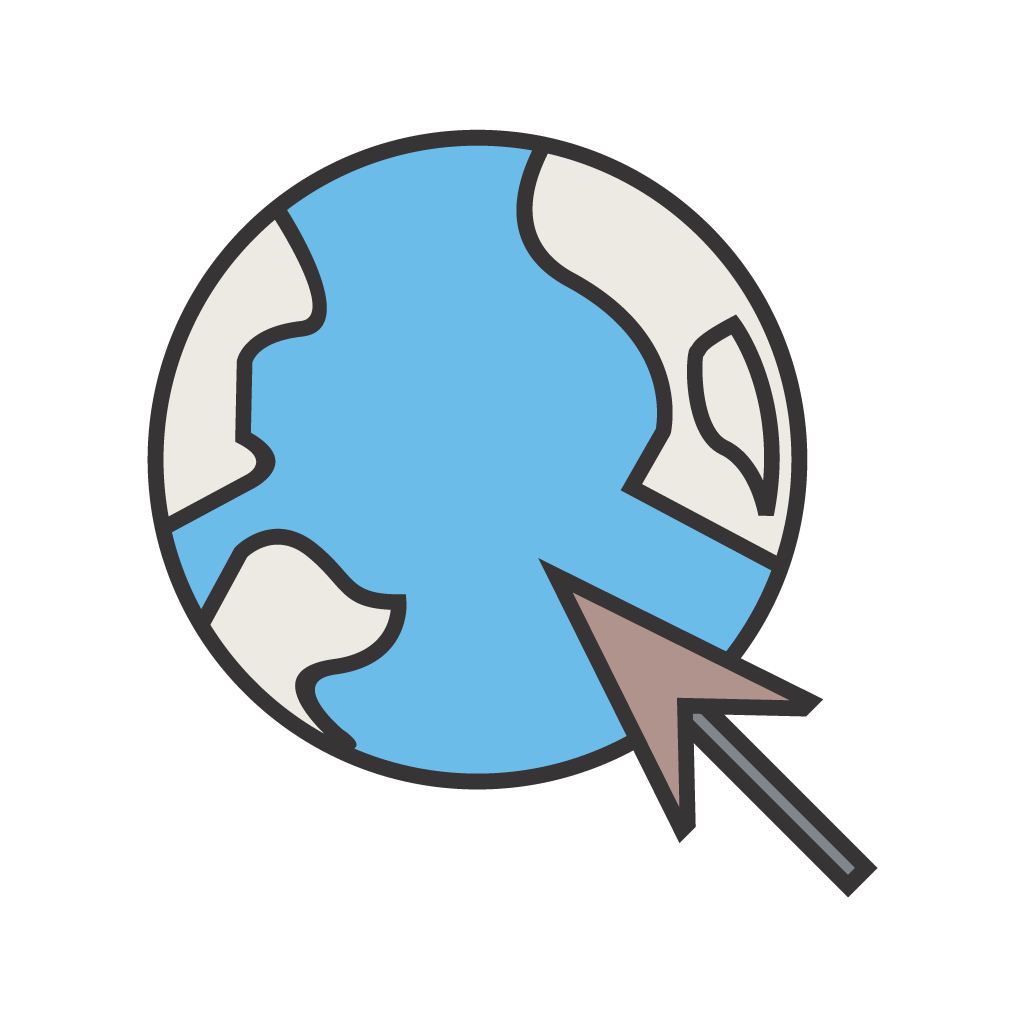
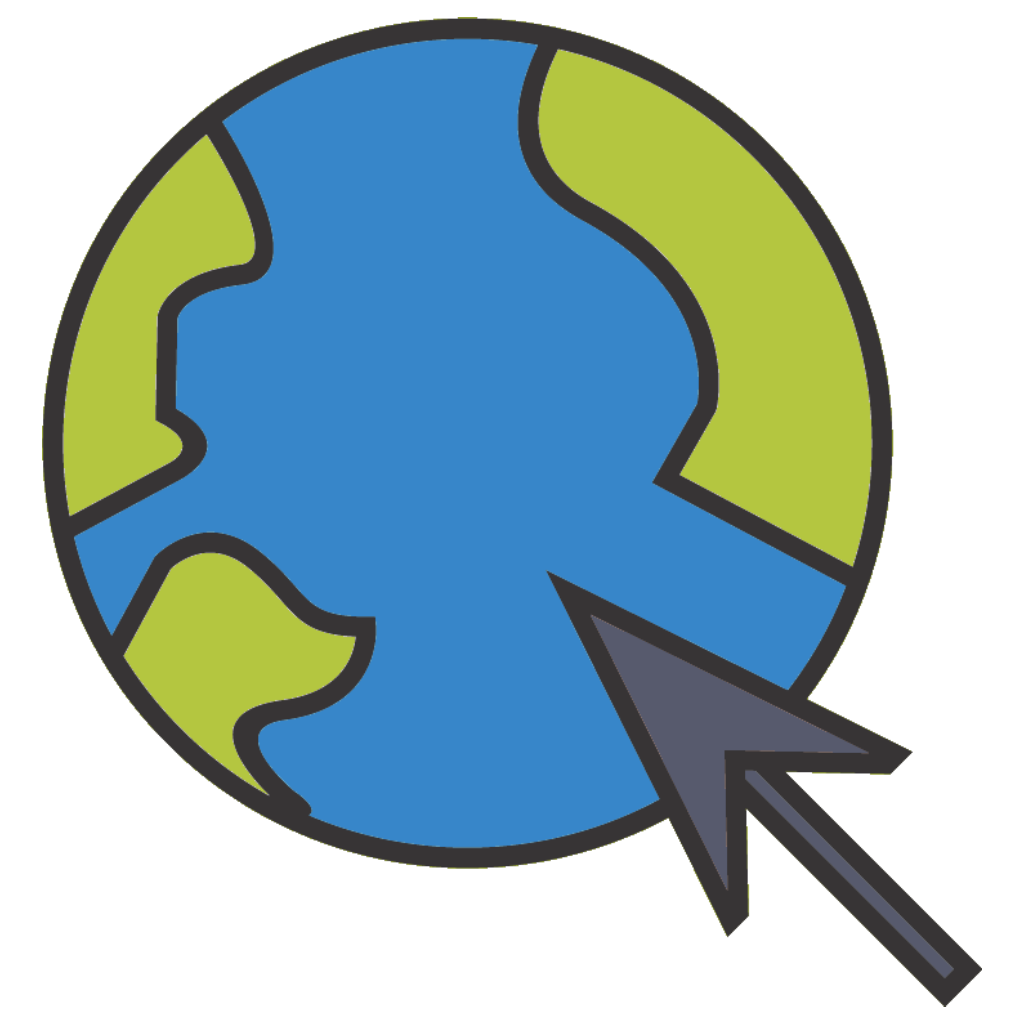
revamped color scheme

diff --git a/index.html b/index.html
@@ -5,12 +5,18 @@
     <meta http-equiv="X-UA-Compatible" content="IE=edge">
     <meta name="viewport" content="width=device-width, initial-scale=1.0">
     <title>Earl Diaz | Portfolio</title>
+    
     <!-- Bootstrap -->
     <link rel="stylesheet" href="https://cdn.jsdelivr.net/npm/bootstrap@4.6.1/dist/css/bootstrap.min.css" integrity="sha384-zCbKRCUGaJDkqS1kPbPd7TveP5iyJE0EjAuZQTgFLD2ylzuqKfdKlfG/eSrtxUkn" crossorigin="anonymous">
+    
     <!-- Google Fonts -->
     <link rel="preconnect" href="https://fonts.googleapis.com">
     <link rel="preconnect" href="https://fonts.gstatic.com" crossorigin>
     <link href="https://fonts.googleapis.com/css2?family=Anton&family=Open+Sans&display=swap" rel="stylesheet">
+    
+    <!-- AOS -->
+    <link href="https://unpkg.com/aos@2.3.1/dist/aos.css" rel="stylesheet">
+    
     <!-- Ext CSS -->
     <link rel="stylesheet" href="style.css">
 </head>
@@ -43,7 +49,7 @@
     <main class="container">
         <section class="row py-5" id="home">
             <div class="col-12">
-                <div class="jumbotron bg-light shadow d-flex justify-content-between align-items-center">
+                <div class="jumbotron bg-light shadow d-flex justify-content-between align-items-center" data-aos="fade-up" data-aos-duration="3000">
                     <div>
                         <h1 class="display-4">Hi! I'm <u>Earl</u> </h1>
                         <p class="lead">I love to <strong>build</strong> and help people <strong>build</strong> digital products for the world-wide web.</p>
@@ -56,56 +62,55 @@
             </div>
         </section>
         <section class="row pb-5" id="about-me">
-            <div class="col-12 text-center">
-                <img src="./images/me.png" alt="me">
+            <div class="col-6 text-right">
+                <img class="shadow" src="./images/me.png" id="self-image" alt="me" data-aos="flip-up">
             </div>
-            <div class="col-12 text-center mt-3">
-                <h3>About Me</h3>
-                <p class="text-justify">
+            <div class="col-6 mt-3">
+                <h3 data-aos="fade-right">About Me</h3>
+                <p class="text-justify w-75" data-aos="fade-right">
                     Lorem ipsum, dolor sit amet consectetur adipisicing elit. Quis consequatur sequi incidunt architecto. Odio molestiae recusandae provident ratione labore, dicta molestias mollitia, harum cum accusamus cumque natus, velit maiores consequuntur.
                     Consequatur, numquam? Aperiam quasi laudantium laborum quisquam voluptatibus explicabo neque ex obcaecati saepe, dicta ducimus blanditiis odio maxime unde eveniet alias soluta voluptates incidunt iusto sint. Unde rerum voluptate consequuntur!
-                    Praesentium molestiae obcaecati, aliquam architecto aut, earum incidunt animi iusto laborum tempora tempore molestias veniam totam voluptate. Excepturi quisquam aliquam exercitationem, quasi maiores repudiandae consequuntur qui quia quo totam laudantium.
                 </p>
             </div>
         </section>
-        <section class="row pb-5" id="my-projects">
+        <section class="row p-5 mb-5 bg-light shadow" id="my-projects" data-aos="fade-up" data-aos-duration="3000">
             <div class="col-12">
                 <h3>My Projects</h3>
             </div>
             <div class="col-4">
-                <div class="card" style="width: 18rem;">
+                <div class="card text-center" style="width: 18rem;">
                     <img src="https://picsum.photos/400/250" class="card-img-top" alt="...">
                     <div class="card-body">
                     <h5 class="card-title">Card title</h5>
-                    <p class="card-text">Some quick example text to build on the card title and make up the bulk of the card's content.</p>
+                    <p class="card-text text-justify">Some quick example text to build on the card title and make up the bulk of the card's content.</p>
                     <a href="#"><button class="btn btn-dark">Go somewhere</button></a>
                     </div>
                 </div>
             </div>
             <div class="col-4">
-                <div class="card" style="width: 18rem;">
+                <div class="card text-center" style="width: 18rem;">
                     <img src="https://picsum.photos/400/250" class="card-img-top" alt="...">
                     <div class="card-body">
                     <h5 class="card-title">Card title</h5>
-                    <p class="card-text">Some quick example text to build on the card title and make up the bulk of the card's content.</p>
+                    <p class="card-text text-justify">Some quick example text to build on the card title and make up the bulk of the card's content.</p>
                     <a href="#"><button class="btn btn-dark">Go somewhere</button></a>
                     </div>
                 </div>
             </div>
             <div class="col-4">
-                <div class="card" style="width: 18rem;">
+                <div class="card text-center" style="width: 18rem;">
                     <img src="https://picsum.photos/400/250" class="card-img-top" alt="...">
                     <div class="card-body">
                     <h5 class="card-title">Card title</h5>
-                    <p class="card-text">Some quick example text to build on the card title and make up the bulk of the card's content.</p>
+                    <p class="card-text text-justify">Some quick example text to build on the card title and make up the bulk of the card's content.</p>
                     <a href="#"><button class="btn btn-dark">Go somewhere</button></a>
                     </div>
                 </div>
             </div>
         </section>
-        <section class="row pb-5" id="contact-me">
+        <section class="row p-5 mb-5 bg-light shadow" id="contact-me" data-aos="fade-up" data-aos-duration="3000">
             <div class="col-12">
-                <h3>Contact</h3>
+                <h3>Contact Me!</h3>
             </div>
             <div class="col-6">
                 <form>
@@ -127,13 +132,44 @@
                 </form>
             </div>
             <div class="col-6">
-                <iframe src="https://www.google.com/maps/embed?pb=!1m18!1m12!1m3!1d3860.4100409860357!2d121.0414892144988!3d14.632650280214197!2m3!1f0!2f0!3f0!3m2!1i1024!2i768!4f13.1!3m3!1m2!1s0x3397b7f5db7f5e3f%3A0xe15d2d6a4453ed00!2sZuitt%20QC!5e0!3m2!1sen!2sph!4v1650355106174!5m2!1sen!2sph" width="600" height="450" style="border:0;" allowfullscreen="" loading="lazy" referrerpolicy="no-referrer-when-downgrade"></iframe>
+                <iframe src="https://www.google.com/maps/embed?pb=!1m18!1m12!1m3!1d3860.4100409860357!2d121.0414892144988!3d14.632650280214197!2m3!1f0!2f0!3f0!3m2!1i1024!2i768!4f13.1!3m3!1m2!1s0x3397b7f5db7f5e3f%3A0xe15d2d6a4453ed00!2sZuitt%20QC!5e0!3m2!1sen!2sph!4v1650355106174!5m2!1sen!2sph" width="500" height="450" style="border:0;" allowfullscreen="" loading="lazy" referrerpolicy="no-referrer-when-downgrade"></iframe>
             </div>
         </section>
     </main>
+    
+    <footer class="p-3 bg-light w-100">
+        <div class="container d-flex justify-content-between">
+            <div>
+                <a class="text-decoration-none" target="_blank" href="https://www.linkedin.com/in/diazearlrafael/">
+                    <img class="mr-3" src="./images/linkedin.png" alt="LinkedIn Logo" width="20" data-toggle="tooltip" data-placement="top" title="LinkedIn">
+                </a>
+                <a class="text-decoration-none" target="_blank" href="https://gitlab.com/fael_">
+                    <img class="mr-3" src="./images/gitlab.png" alt="Gitlab Logo" width="20" data-toggle="tooltip" data-placement="top" title="GitLab">
+                </a>
+                <a class="text-decoration-none" target="_blank" href="https://www.instagram.com/earlrafael_/">
+                    <img class="mr-3" src="./images/instagram.png" alt="IG Logo" width="20" data-toggle="tooltip" data-placement="top" title="Instagram">
+                </a>
+            </div>
+            <p><strong>Made with 🖤 by Earl Rafael Diaz.</strong></p>
+        </div>
+    </footer>
 
     <!-- Bootstrap JS -->
     <script src="https://cdn.jsdelivr.net/npm/jquery@3.5.1/dist/jquery.slim.min.js" integrity="sha384-DfXdz2htPH0lsSSs5nCTpuj/zy4C+OGpamoFVy38MVBnE+IbbVYUew+OrCXaRkfj" crossorigin="anonymous"></script>
     <script src="https://cdn.jsdelivr.net/npm/bootstrap@4.6.1/dist/js/bootstrap.bundle.min.js" integrity="sha384-fQybjgWLrvvRgtW6bFlB7jaZrFsaBXjsOMm/tB9LTS58ONXgqbR9W8oWht/amnpF" crossorigin="anonymous"></script>
+
+    <!-- AOS JS -->
+    <script src="https://unpkg.com/aos@2.3.1/dist/aos.js"></script>
+
+    <!-- Custom JS -->
+    <script>
+        // Initializes AOS
+        AOS.init();
+        
+        // Enables tooltips
+        $(function () {
+            $('[data-toggle="tooltip"]').tooltip()
+        })
+    </script>
 </body>
 </html>

diff --git a/style.css b/style.css
@@ -2,19 +2,26 @@
 {
     font-family: 'Open Sans', sans-serif;
     scroll-behavior: smooth;
-    color: #1BA098;
+    color: #575A6C;
 }
 
 button
 {
     border-radius: 30px !important;
-    background-color: #DEB992 !important;
-    border-color: #DEB992 !important;
+    background-color: #B4C540 !important;
+    border-color: #B4C540 !important;
+}
+
+input, textarea, .card
+{
+    border-radius: 30px !important;
 }
 
 .navbar
 {
-    background: rgb(27, 160, 152, 0.5);
+    background: rgb(54, 134, 201);
+    border-bottom-left-radius: 30px;
+    border-bottom-right-radius: 30px;
 }
 
 .navbar-brand
@@ -22,18 +29,9 @@ button
     font-family: 'Anton', sans-serif;
 }
 
-h1
+h1, h3, u
 {
-    font-family: 'Anton', sans-serif;
-}
-
-h3
-{
-    font-family: 'Anton', sans-serif;
-}
-
-u
-{
+    color: rgb(54, 134, 201);
     font-family: 'Anton', sans-serif;
 }
 
@@ -42,3 +40,18 @@ strong
     font-weight: bold;
 }
 
+.jumbotron, .row
+{
+    border-radius: 20px;
+}
+
+#self-image
+{
+    border: 10px solid #B4C540;
+    border-radius: 50%;
+}
+
+.card-title
+{
+    font-weight: bold;
+}
